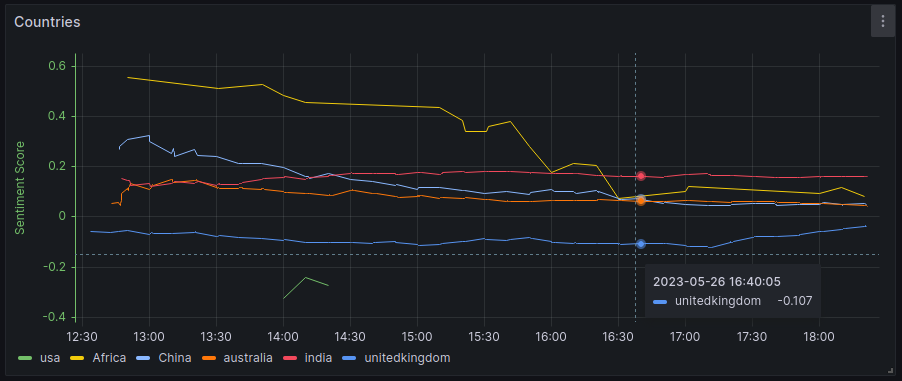
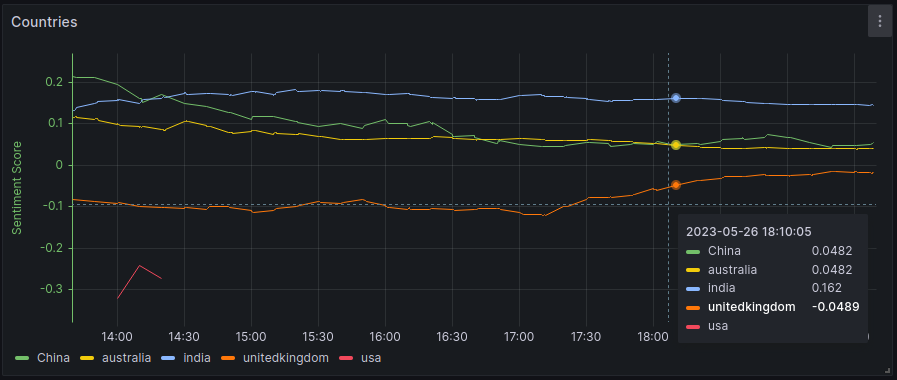
Update README and images

diff --git a/reddit_producer/reddit_producer.py b/reddit_producer/reddit_producer.py
@@ -7,7 +7,7 @@ import threading
 
 threads = []
 top_subreddit_list = ['AskReddit', 'funny', 'gaming', 'aww', 'worldnews']
-countries_subreddit_list = ['india', 'usa', 'unitedkingdom', 'australia', 'russia', 'China', 'Africa']
+countries_subreddit_list = ['india', 'usa', 'unitedkingdom', 'australia', 'russia', 'China']
 
 
 class RedditProducer:

diff --git a/README.md b/README.md
@@ -93,6 +93,13 @@ http://192.168.49.2:30000
 ![kafdrop_ui](https://raw.githubusercontent.com/nama1arpit/reddit-streaming-pipeline/main/images/kafdrop_ui.png)
 
 # Improvements
+- Cassandra and Kafka initialisation: The initialisation containers stay running after the initialisation is finished due to restart policy of other containers within the same pod. A separate deployment for intitialisation containers was considered but due to the lack of option `restart_policy=Never` in `kubernetes_deployment` terraform resource ([github issue](https://github.com/hashicorp/terraform-provider-kubernetes/issues/435)). Furthermore, [kubernetes_job](https://registry.terraform.io/providers/hashicorp/kubernetes/latest/docs/resources/job) resource can be considered for this purpose.
+
+- Optimise Dockerfiles: Certain dockerfiles can be further optimised to build only the final few layers in the case of relevant script modification. This should reduce the running time of the CI script. On that note, a proper CI pipeline is also another improvement to work on.
+
+- Different Cassandra Users: A separate read-only user in Cassandra should be made for Grafana dashboard queries.
+
+- Code cleanup and Integration testing: Further code cleanup and refactoring in various scripts is required along with integration testing for various parts in the infrastructure.
 
 # Acknowledgements
 1. [Finnhub Streaming Data Pipeline Project](https://github.com/RSKriegs/finnhub-streaming-data-pipeline)
